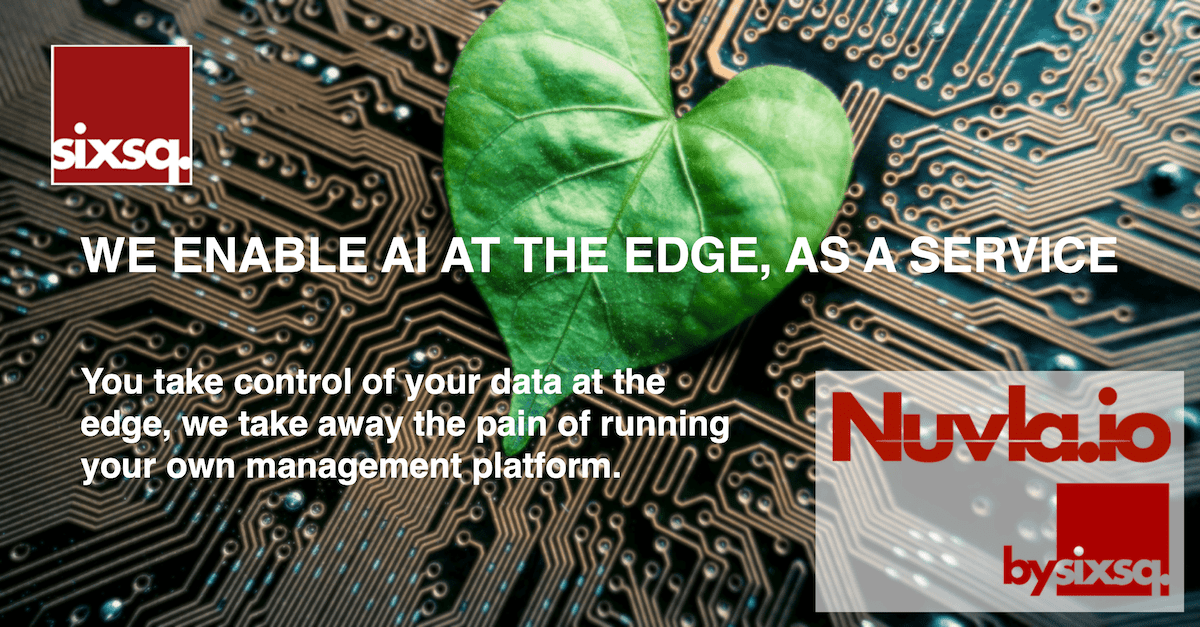
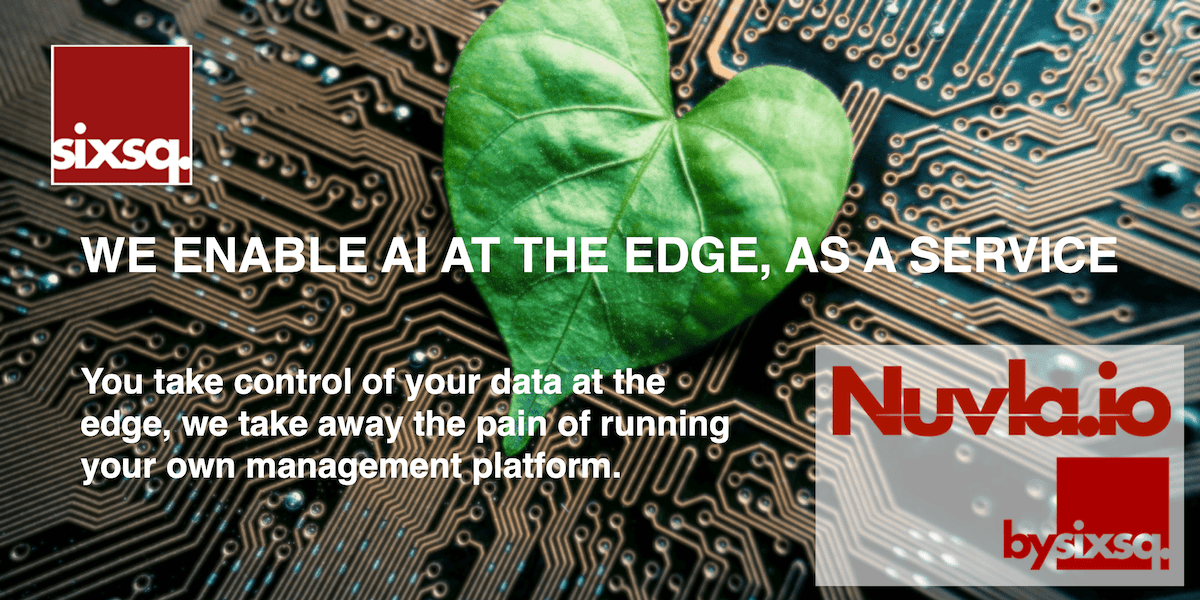
optimise images for social media

diff --git a/_includes/head.html b/_includes/head.html
@@ -17,12 +17,17 @@ j=d.createElement(s),dl=l!='dataLayer'?'&l='+l:'';j.async=true;j.src=
   {% if page.image %}
     {% assign image = page.image %}
   {% else %}
-    {% assign image = "/img/social/sixsq-twitter-image.png" %}
+    {% assign image = "/img/social/sixsq-linkedin-image.png" %}
   {% endif %}
   <meta property="og:image" content="{{ site.url }}{{ image }}"/>
   <meta property="og:description" content="{{ page.summary }}"/>
   <meta property="og:url" content="{{ site.url }}{{ page.url }}" />  
   
+  {% if page.image %}
+    {% assign image = page.image %}
+  {% else %}
+    {% assign image = "/img/social/sixsq-twitter-image.png" %}
+  {% endif %}
   <meta name="twitter:card" content="summary_large_image" />
   <meta name="twitter:description" content="{{ page.summary }}" />
   <meta name="twitter:title" content="{{ page.title }}" />
